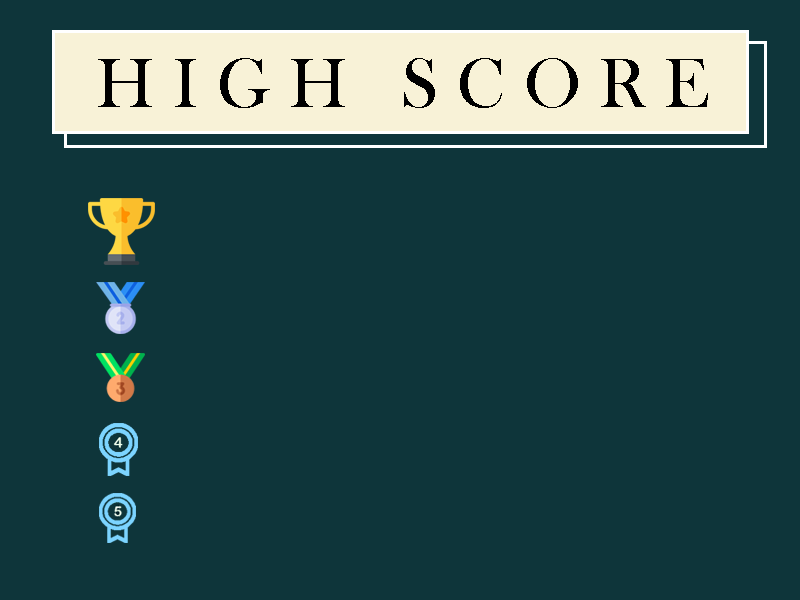
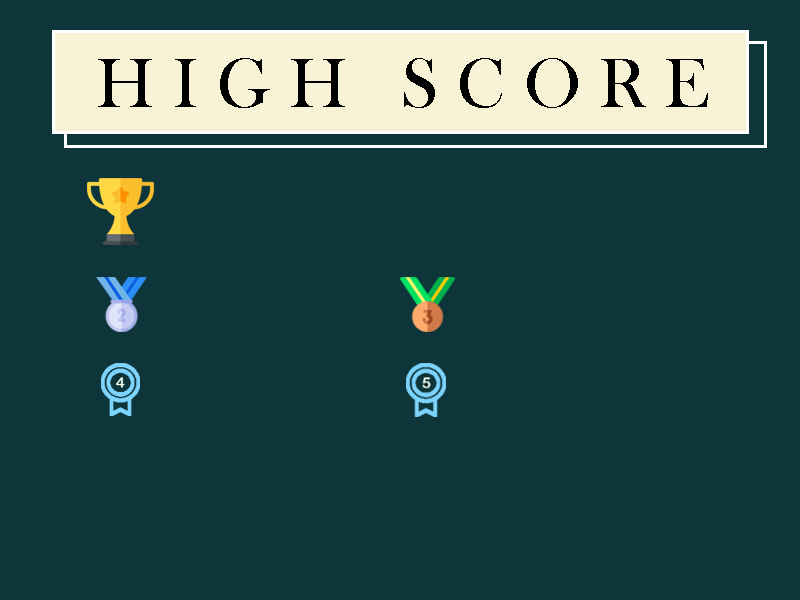
AddBgScoreAndChangeFont

Changed region(s): [[0.0938, 0.27, 0.2188, 0.9], [0.5, 0.45, 0.5625, 0.57], [0.5, 0.6, 0.5625, 0.69]]

diff --git a/src/principal/statemachine/gamestate/ScoreMenu.java b/src/principal/statemachine/gamestate/ScoreMenu.java
@@ -17,13 +17,15 @@ public class ScoreMenu implements GameState{
 	
 	private Font font;
 	private Font font1;
+	private Font font2;
 	private Sprite bg;
 	
-	public Rectangle backButton = new Rectangle(300, 450, 100, 50); // 300,450
+	public Rectangle backButton = new Rectangle(25, 525, 50, 25);
 	
 	public ScoreMenu() {
-		font = new Font("BOLD", Font.PLAIN,15);
-		font1 = new Font("BOLD", Font.PLAIN, 70);
+		font = new Font("BOLD", Font.ITALIC,30);
+		font1 = new Font("BOLD", Font.PLAIN,15);
+		font2 = new Font("BOLD", Font.PLAIN,25);
 		bg = Game.animations.getBgScore();
 	}
 	
@@ -40,21 +42,39 @@ public class ScoreMenu implements GameState{
 
 	@Override
 	public void render(Graphics2D g, long time) {
-		
-		g.setColor(Color.WHITE);
-	
-		g.setFont(font1);
-		g.drawString("HIGHSCORES", 30,  100);
+
 		g.drawImage(bg.getImage(),0,0,null);
-		
-		g.setFont(font);	
+
+
 		for (int i = 0; i < Score.MAX_SCORE_AMOUNT; i++){
 			if(Score.getScore().getCertainName(i)==null ||Score.getScore().getCertainName(i).equals("null"))continue;
-			String scores = Score.getScore().getCertainName(i)+":   "+Score.getScore().getCertainScore(i);
-			g.drawString(scores, 30, 100 + (i+1) * 50);
+			if(i==0){
+				g.setColor(Color.YELLOW);
+				g.setFont(font);
+				String scores = Score.getScore().getCertainName(i)+":   "+Score.getScore().getCertainScore(i);
+				g.drawString(scores, 160, 173 + (i+1) * 50);
+			}else if(i==1){
+				g.setColor(Color.WHITE);
+				g.setFont(font2);
+				String scores = Score.getScore().getCertainName(i)+":   "+Score.getScore().getCertainScore(i);
+				g.drawString(scores, 160, 315);
+			}else if(i==2){
+				g.setFont(font2);
+				String scores = Score.getScore().getCertainName(i)+":   "+Score.getScore().getCertainScore(i);
+				g.drawString(scores, 470, 315);
+			}else if(i==3){
+				g.setFont(font2);
+				String scores = Score.getScore().getCertainName(i)+":   "+Score.getScore().getCertainScore(i);
+				g.drawString(scores, 160, 400);
+			}else if(i==4){
+				g.setFont(font2);
+				String scores = Score.getScore().getCertainName(i)+":   "+Score.getScore().getCertainScore(i);
+				g.drawString(scores, 470, 400);
+			}
+
 		}
-		
-		g.drawString("Back",backButton.x + 19,backButton.y+30);
+		g.setFont(font1);
+		g.drawString("Back",backButton.x + 5,backButton.y+17);
 		g.draw(backButton);
 		
 	}
